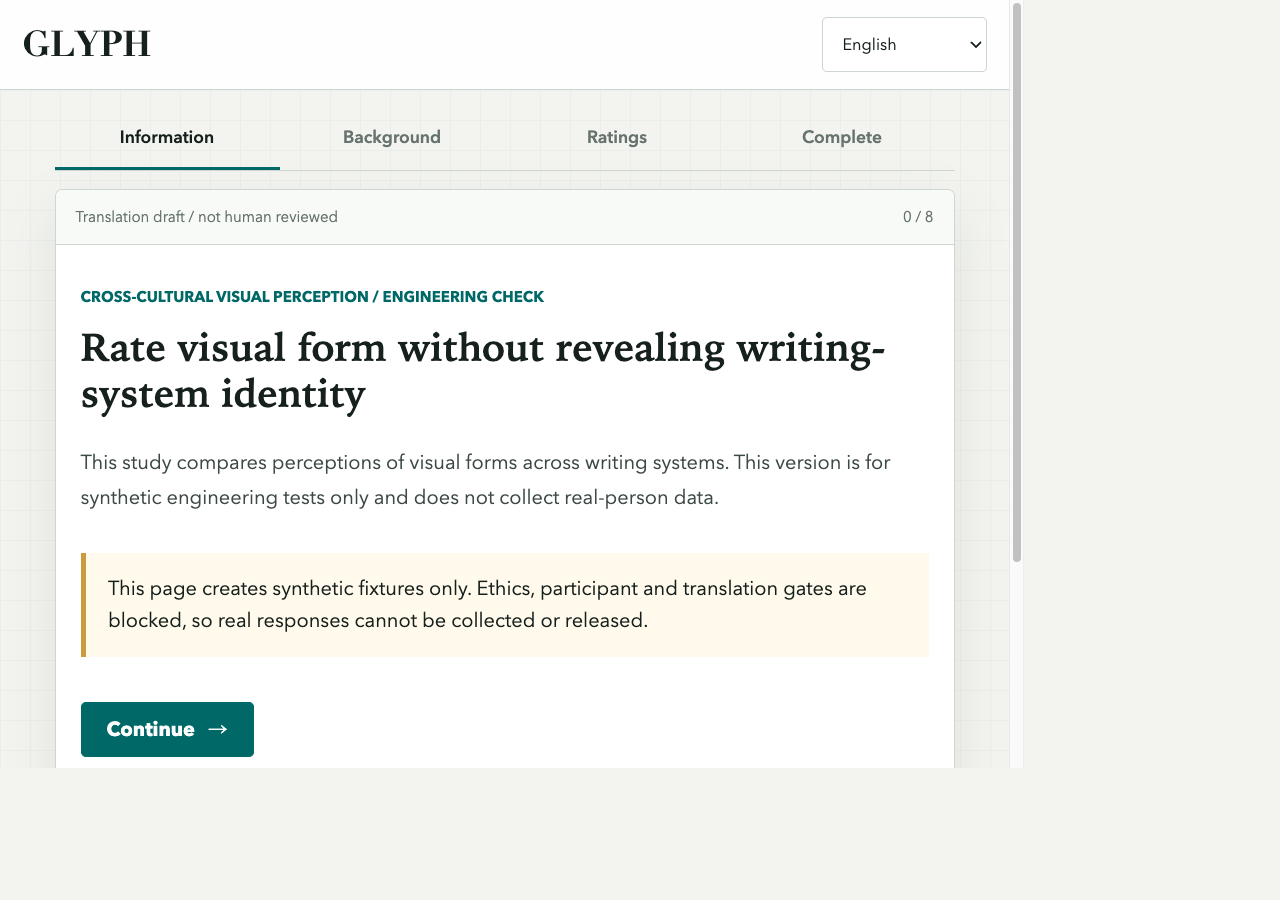
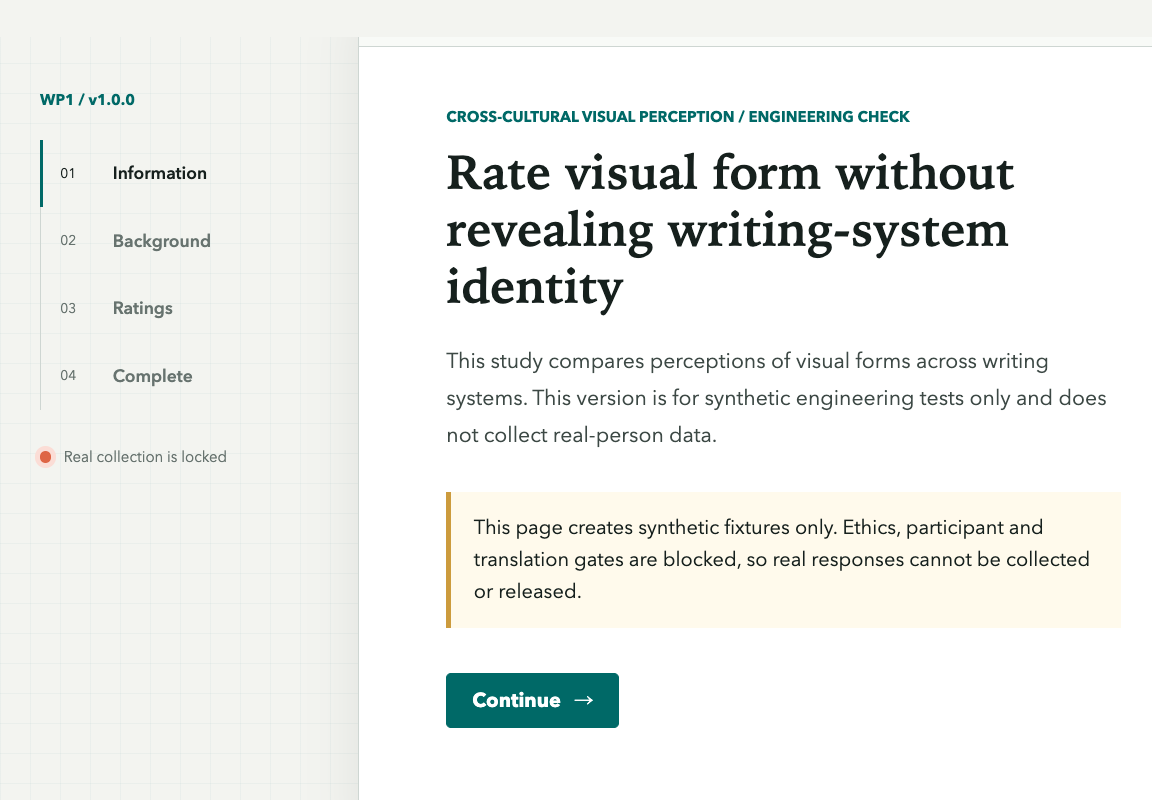
Update TASK-03 handoff after remediation

diff --git a/data/releases/task03_cross_cultural_experiment_v1/TASK_03_REPORT_zh.md b/data/releases/task03_cross_cultural_experiment_v1/TASK_03_REPORT_zh.md
@@ -1,8 +1,8 @@
 # TASK-03 跨文化感知实验与多语问卷报告
 
 版本：`1.0.0`
-生成时间：2026-09-04T06:49:28Z
-Implementation commit：`dff452fbb733763d39c82c61011cabdd631265fd`
+生成时间：2026-09-04T08:30:19Z
+Implementation commit：`2048fa9866eb8cedc58b7399958331eae5f4325e`
 
 ## 完成范围
 
@@ -10,8 +10,8 @@ Implementation commit：`dff452fbb733763d39c82c61011cabdd631265fd`
 
 ## 验收结果
 
-- TASK-03 专项：35 passed，退出码 0。
-- 全仓测试：268 passed，退出码 0。
+- TASK-03 专项：55 passed，退出码 0。
+- 全仓测试：288 passed，退出码 0。
 - JavaScript syntax、`uv lock --check`、`git diff --check`：退出码均为 0。
 - 浏览器：四语、桌面/移动、完整 8-trial 交互、恢复、非空像素、无横向溢出、无禁用元数据命中；passed=true。
 - 1000 人：8000 unique presentations，0 lost，0 duplicate，group-stimulus exposure spread 0，stimulus-position spread 1。
